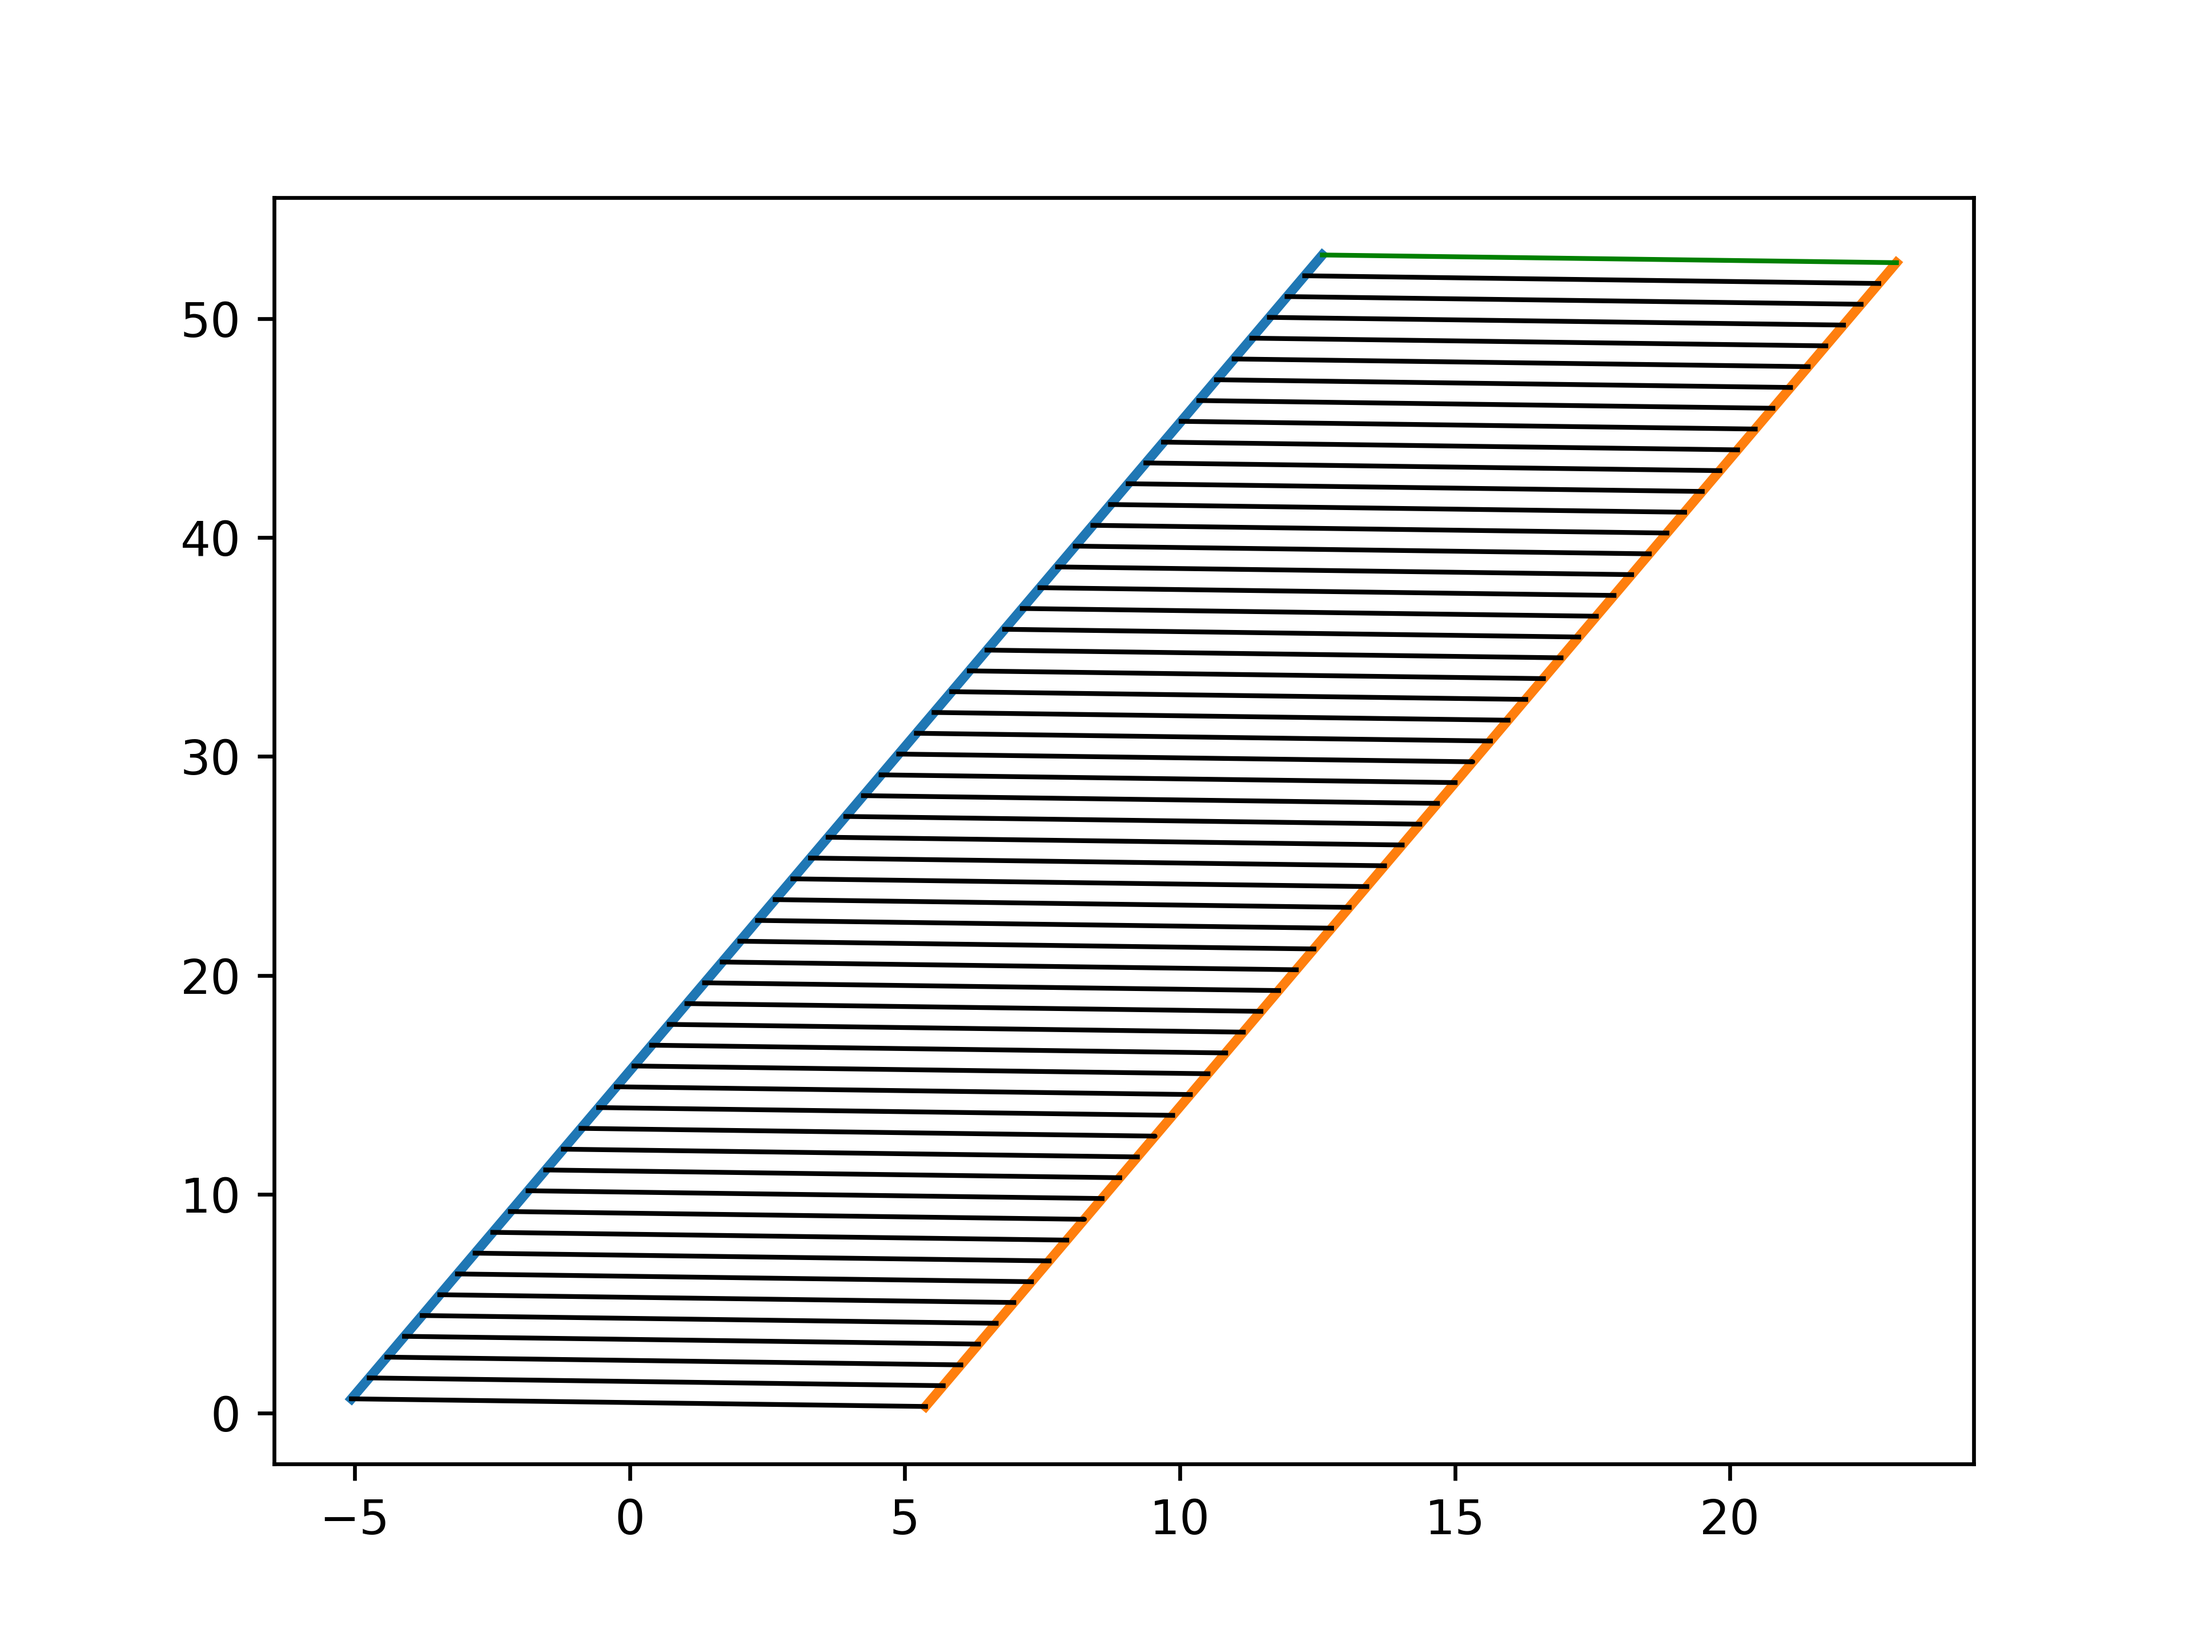
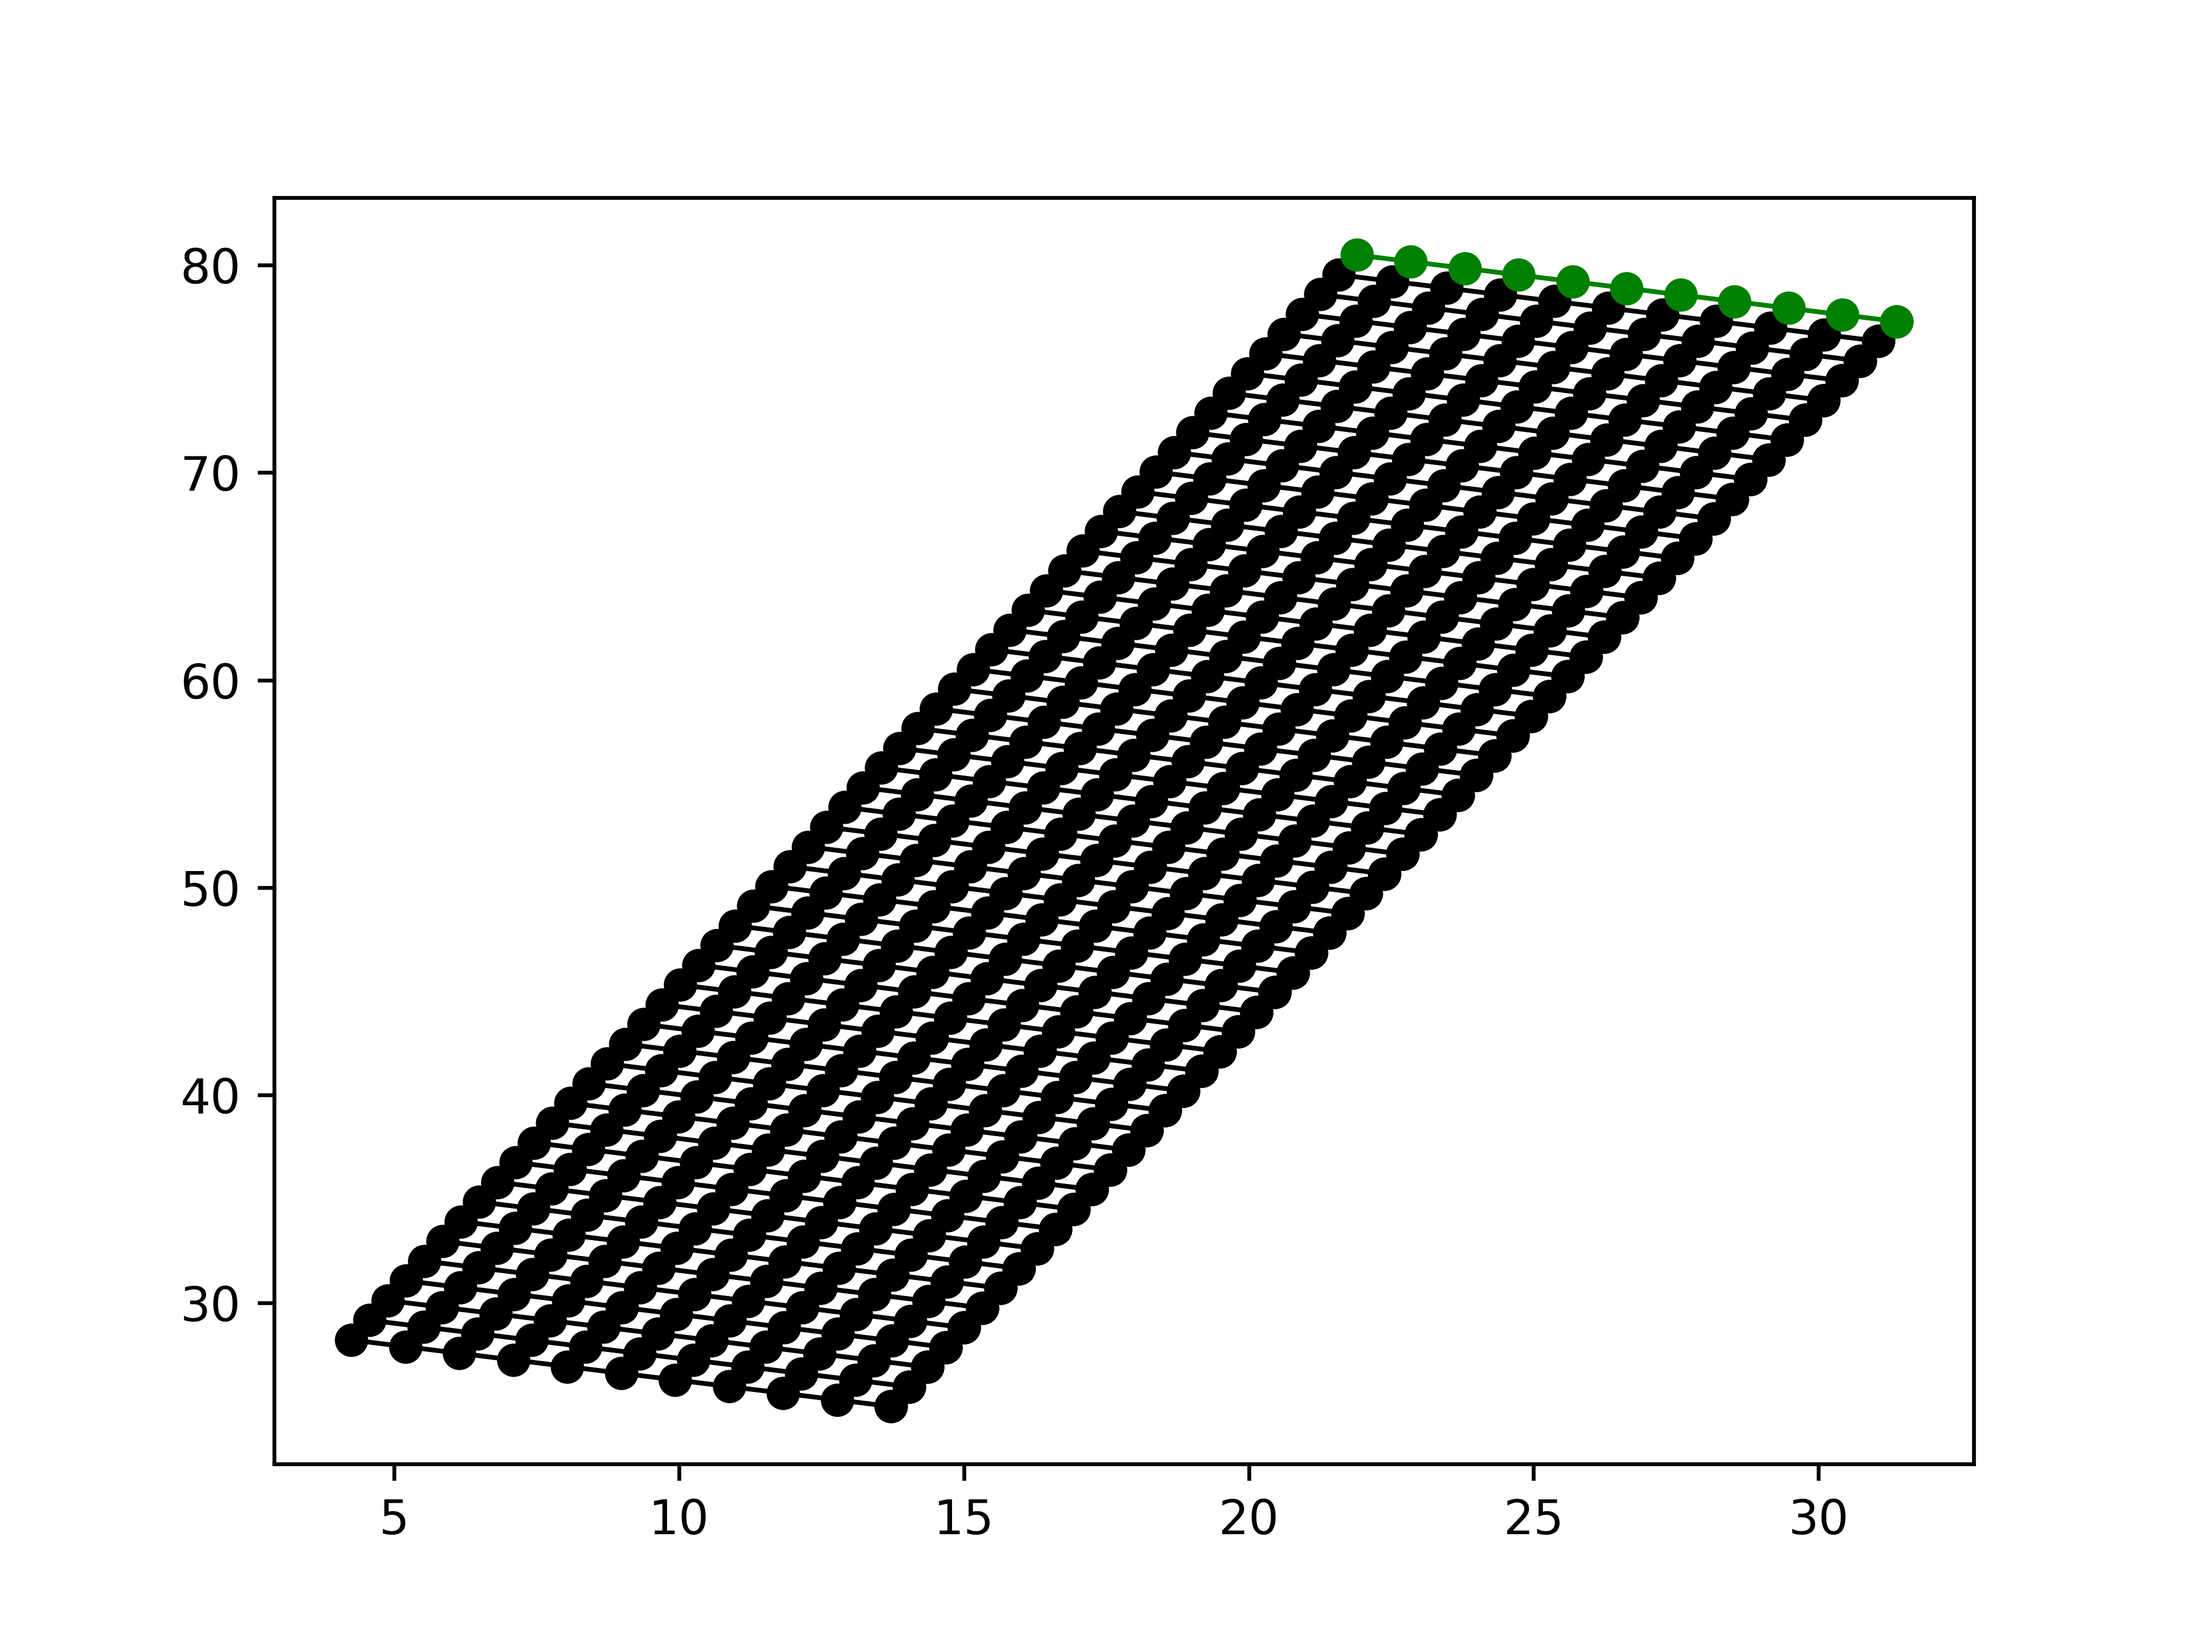
fixing shortest path code - cone map not accurate

diff --git a/src/planning/path_planning/path_planning/trajectory_shortest_path.py b/src/planning/path_planning/path_planning/trajectory_shortest_path.py
@@ -38,30 +38,12 @@ class shortest_path(NODE):
         self.create_subscription(ConeMap, "cone_map", self.set_boundaries, 10)
 
         # publishers
-        self.steering_angle = self.create_publisher(Float32, "moa/selected_steering_angle", 10)
+        self.steering_angle = self.create_publisher(Float32, "/test/cmd_steering", 10)
         self.best_trajectory_publisher = self.create_publisher(PoseArray, "moa/selected_trajectory", 10)
 
 
     def set_boundaries(self, msg:ConeMap):
-        cones = msg.cones
-        # loop through each cone
-        innerboundary = []
-        outerboundary = []
-        ic = 0
-        oc = 0
-        for i in range(len(cones)):
-            x = cones[i].pose.pose.position.x
-            y = cones[i].pose.pose.position.y
-            if i == 0:
-                car_position = [x,y]
-            else:
-                # blue - left
-                if cones[i].colour == 0:
-                    innerboundary.append([x,y])
-                    ic += 1
-                elif cones[i].colour == 2:
-                    outerboundary.append([x,y])
-                    oc += 1
+        innerboundary, outerboundary, car_position, oc, ic = self.get_boundaries(msg.cones)
 
         # innerboundary = np.array(innerboundary)
         # outerboundary = np.array(outerboundary)
@@ -105,23 +87,46 @@ class shortest_path(NODE):
         # get steering angle based on current and next point
         p1 = start_node._xy
         p2 = start_node._nextNode._xy
-        # p1 = np.array(self.get_transformed_point(msg, start_node._xy))
-        p2 = np.array(self.get_transformed_point(msg, start_node._nextNode._xy))
-        steering_angle = TrackHelpers.getAngle(p1=p1, p2=p2)
+        p1t = np.array(self.get_transformed_point(msg, start_node._xy))  # transform
+        p2t = np.array(self.get_transformed_point(msg, start_node._nextNode._xy))
+        steering_angle = TrackHelpers.getAngleRotation(p1t, p2t)
+        steering_angle = -steering_angle * 180 / np.pi
 
         # publish msgs
-        self.steering_angle.publish(Float32(data=steering_angle))
+        # self.steering_angle.publish(Float32(data=steering_angle))
 
-        nodes = [start_node, start_node._nextNode]
+        points = [p1t, p2]
         msg = PoseArray()
-        for N in nodes:
-            args = {"position": Point(x=N._xy[0], y=N._xy[1], z=0.0)}
+        for P in points:
+            args = {"position": Point(x=P[0], y=P[1], z=0.0)}
             msg.poses.append(Pose(**args))
         self.best_trajectory_publisher.publish(msg)
 
         self.get_logger().info(f"steering angle published: {steering_angle}")
 
         return
+    
+    def get_boundaries(self, cones):
+        # loop through each cone
+        innerboundary = []
+        outerboundary = []
+        ic = 0
+        oc = 0
+        for i in range(len(cones)):
+            x = cones[i].pose.pose.position.x
+            y = cones[i].pose.pose.position.y
+            if i == 0:
+                car_position = [x,y]
+            else:
+                # blue - left
+                if cones[i].colour == 0:
+                    innerboundary.append([x,y])
+                    ic += 1
+                elif cones[i].colour == 2:
+                    outerboundary.append([x,y])
+                    oc += 1
+
+        return innerboundary, outerboundary, car_position, oc, ic
     
     def save_track(self, innerboundary, outerboundary):
         with open(f'/{os.path.dirname(__file__)}/bound_coods', 'w') as fh:
@@ -225,7 +230,6 @@ class shortest_path(NODE):
         transformed_point = np.matmul(rotation_matrix, point) + position_vector
 
         return transformed_point
-
 
 
 def main():

diff --git a/src/planning/path_planning/path_planning/shortest_path/TrackHelpers.py b/src/planning/path_planning/path_planning/shortest_path/TrackHelpers.py
@@ -27,14 +27,24 @@ def getRotatedVector(angle, vector:np.array):
 def getMidPoint(p1:np.array, p2:np.array): return (p2 + p1)/2
 
 def getAngle(p1:np.array, p2:np.array):
-    diff = getVector(p1=p1, p2=p2, unit=True)
+    diff = p2-p1
+    ratio = diff[0]/diff[1]
 
-    return np.arctan2(diff[1], diff[0])
+    return np.arctan(ratio)
 
 def getAngle2(p1:np.array, p2:np.array):
     value = np.dot(p1, p2) / (getMagnitude(p1) * getMagnitude(p2))
     
     return np.arccos(value)
+
+def getAngleRotation(v1, v2):
+    x1, y1 = v1
+    x2, y2 = v2
+    dot = x1*x2 + y1*y2      # Dot product between [x1, y1] and [x2, y2]
+    det = x1*y2 - y1*x2      # Determinant
+    angle = np.arctan2(det, dot)  # atan2(y, x) or atan2(sin, cos)
+
+    return angle
 
 
 # function getVectorLineIntersection(v1::Vector, p1::Vector,v2::Vector, p2::Vector)
@@ -126,7 +136,7 @@ def Plot(nodes:bool, vector_list:np.array, label:str,col=None):
         all_x = [P._xy[0] for P in vector_list]
         all_y = [P._xy[1] for P in vector_list]
         lw = 1
-        plt.plot(all_x, all_y, "-", label=label, lw=lw, color=col)
+        plt.plot(all_x, all_y, "-o", label=label, lw=lw, color=col)
     else:
         all_x = [P[0] for P in vector_list]
         all_y = [P[1] for P in vector_list]

diff --git a/src/planning/path_planning/path_planning/shortest_path/TrackMethods.py b/src/planning/path_planning/path_planning/shortest_path/TrackMethods.py
@@ -104,8 +104,8 @@ def importTrack(track_info:pd.DataFrame=None, trackname:str=None, plot:bool=Fals
         if trackname is None: trackname = "imported track"
         p.savefig(f"{os.path.dirname(__file__)}/Track images/{trackname}.png", dpi=600) 
         plt.legend()
-        plt.close()
-        # plt.show()
+        plt.show()
+        # plt.close()
 
     return trackdf
 
@@ -279,8 +279,8 @@ def getBrackets(df:pd.DataFrame, n_nodes, plot:bool=False):
             TrackHelpers.Plot(True, all_nodes, "nodes", col)
 
         p.savefig(f"{os.path.dirname(__file__)}/Track images/nodes.png", dpi=600) 
-        plt.close()
-        # plt.show()
+        plt.show()
+        # plt.close()
 
     return brackets
 
@@ -393,8 +393,9 @@ def belman_ford_path(df, velocity_range, brackets, start_node, track_name=None, 
 
         if track_name is None: track_name = "optimalPath"
         p.savefig(f"{os.path.dirname(__file__)}/Race lines/{track_name}.png", dpi=600) 
-        plt.close()
-        # plt.show()
+        plt.legend()
+        plt.show()
+        # plt.close()
 
     return start_node
 
